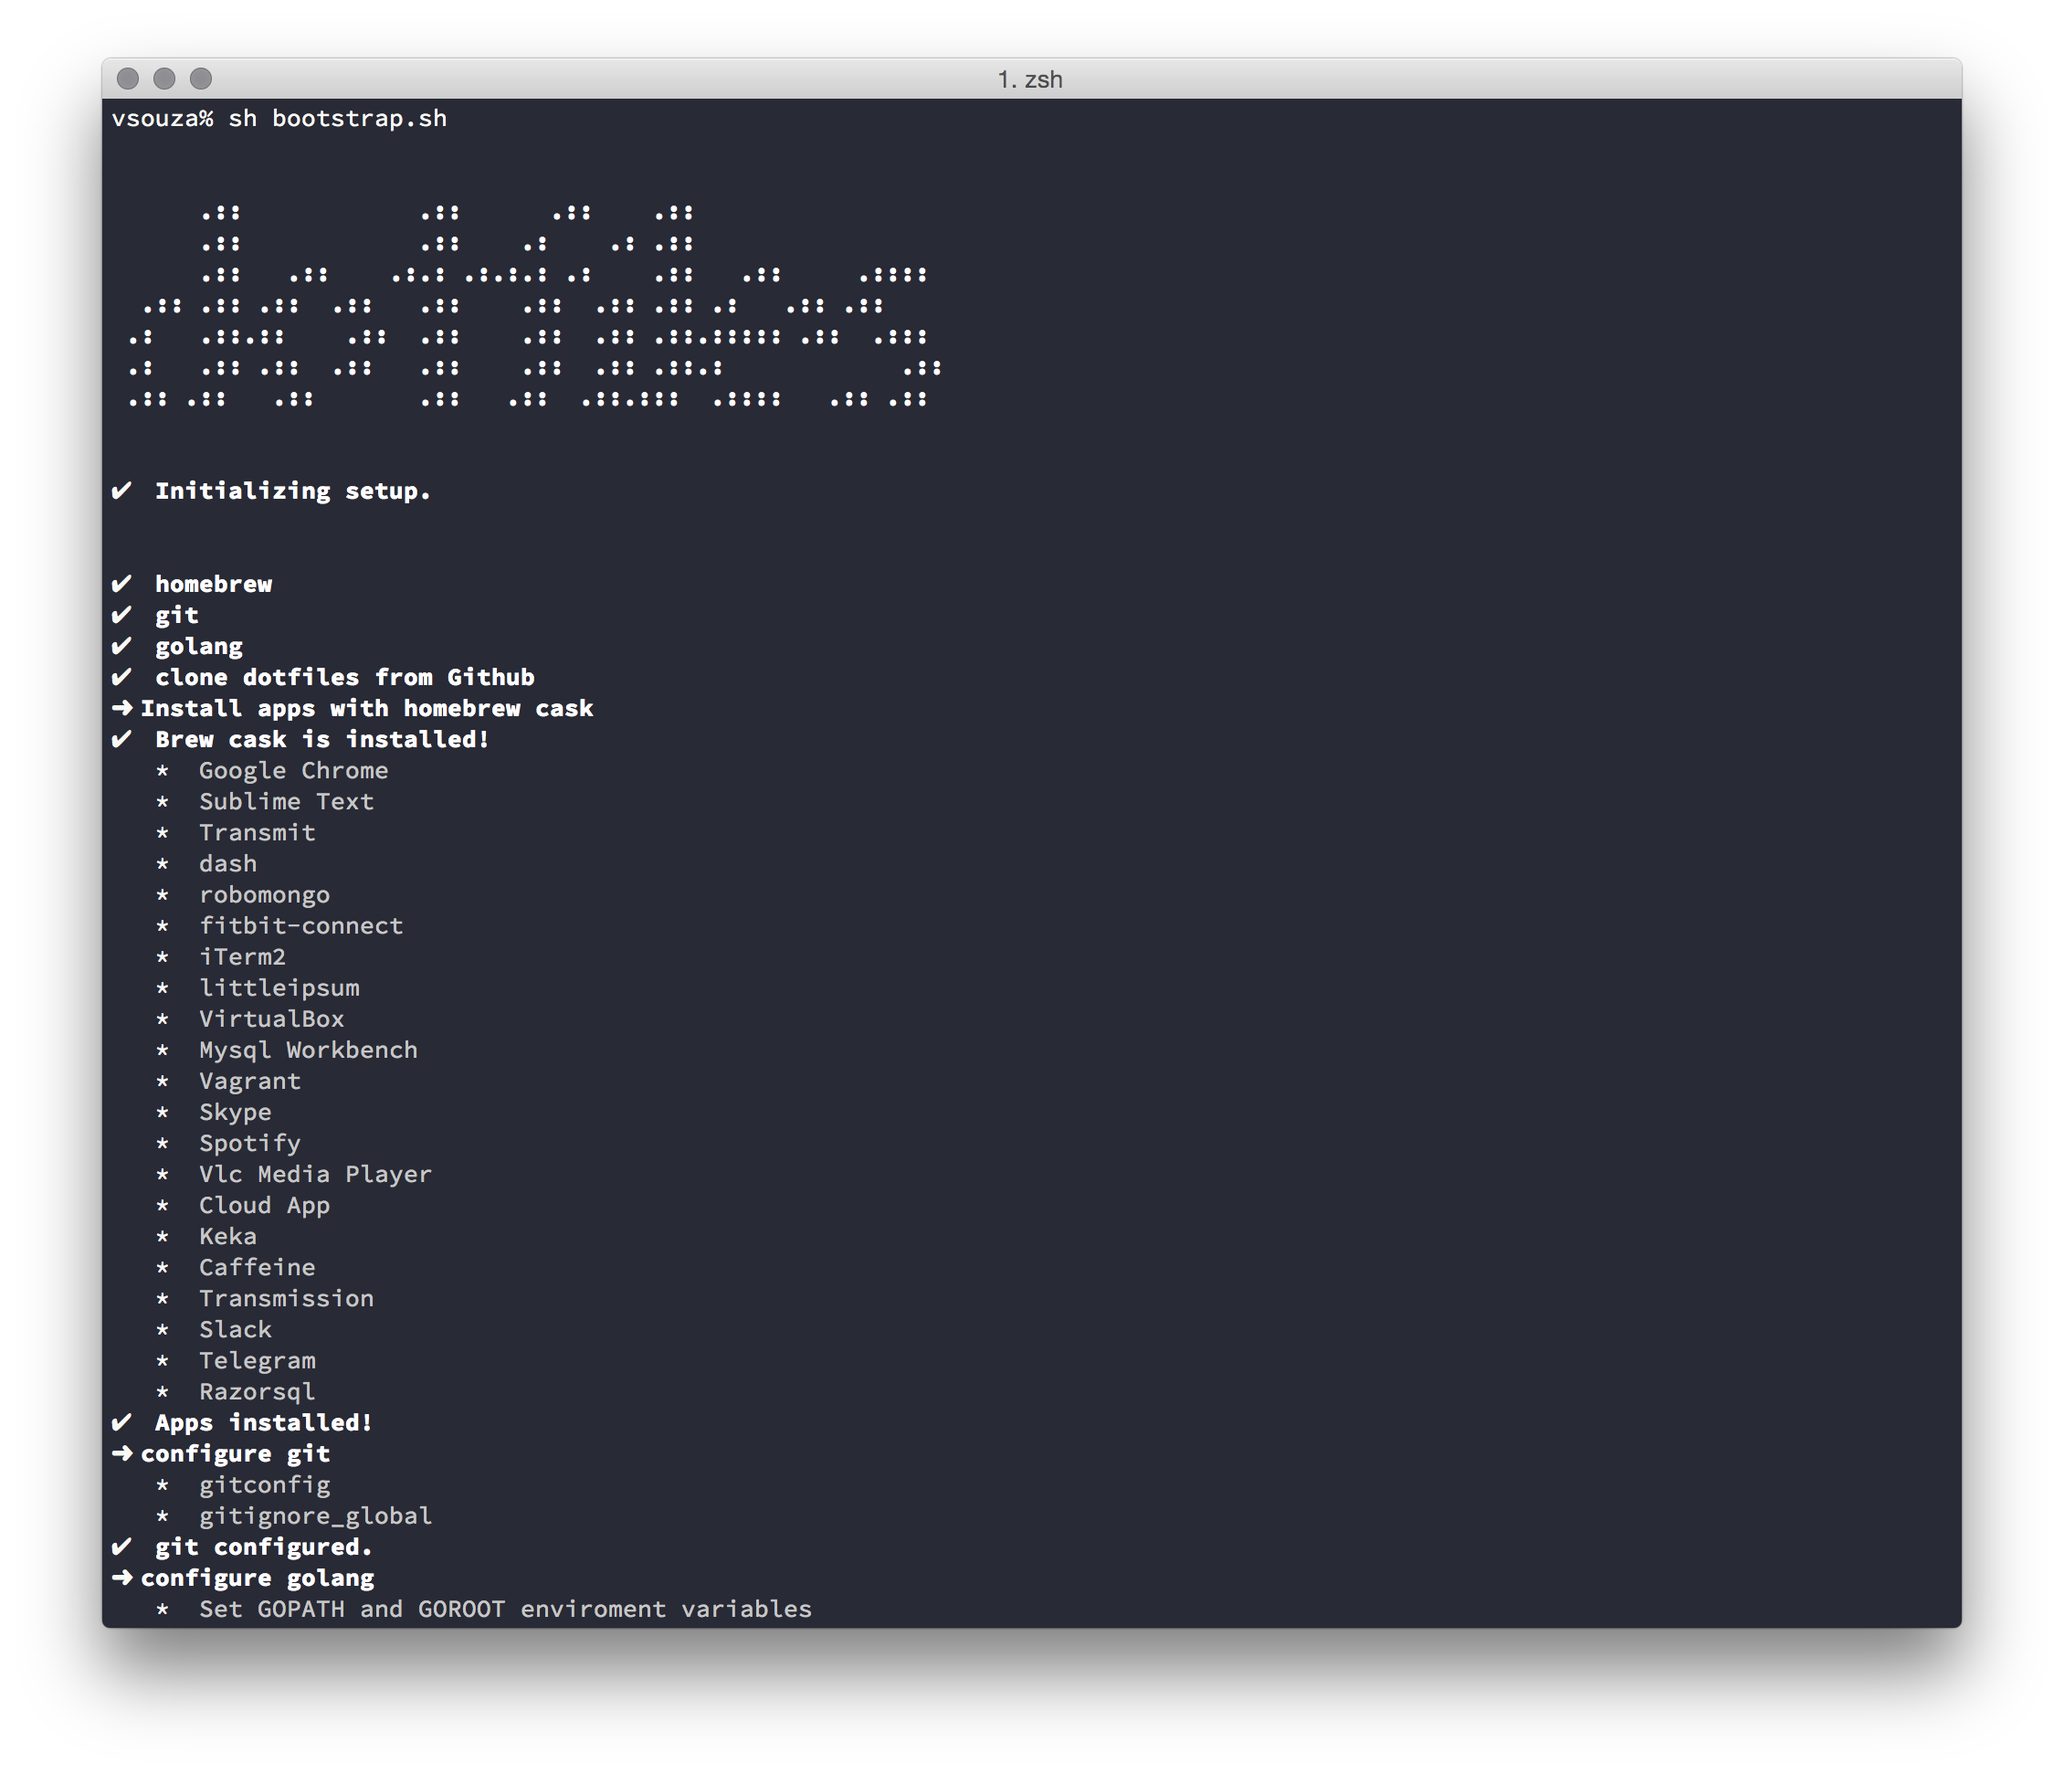
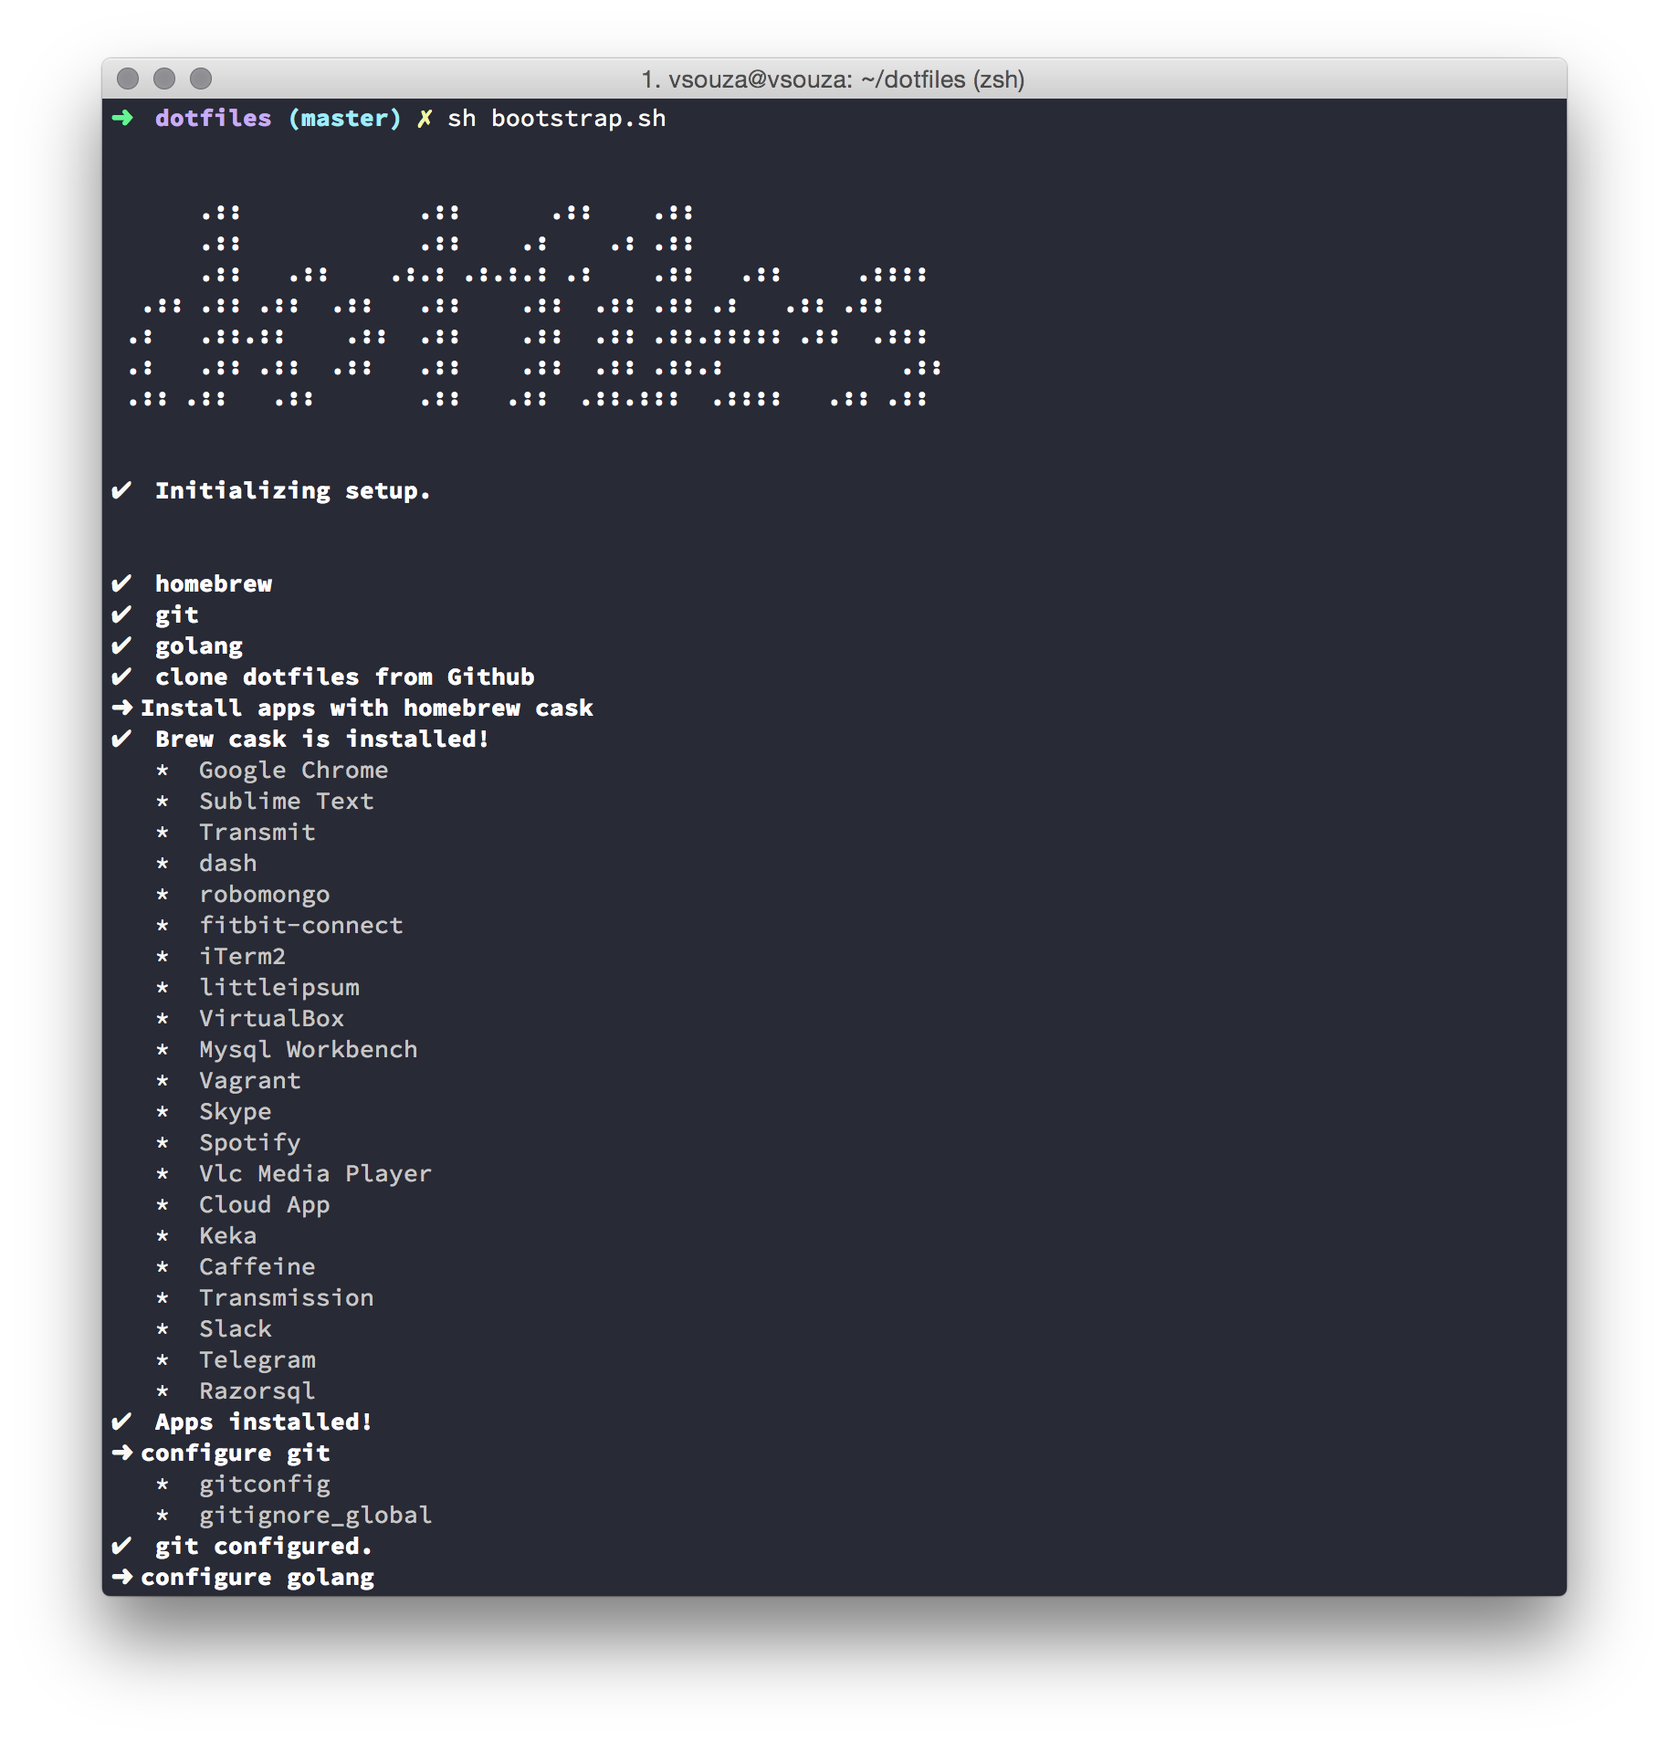
add zshell configuration. change screenshot and edit readme

diff --git a/README.md b/README.md
@@ -43,27 +43,28 @@ All my command-line tools and its configurations. Have fun :)
 
 #### Apps
 
-After installing all apps are moved to /Applications folder
+* Google Chrome
+* Sublime Text
+* Transmit
+* dash
+* robomongo
+* fitbit-connect
+* iTerm2
+* littleipsum
+* VirtualBox
+* Mysql Workbench
+* Vagrant
+* Skype
+* Spotify
+* Vlc Media Player
+* Cloud App
+* Keka
+* Caffeine
+* Transmission
+* Slack
+* Telegram
+* Razorsql
 
- * Atom
- * Firefox
- * Google Chrome
- * Cloud App
- * Caffeine
- * Filezilla
- * Sublime Text
- * Github App
- * Skype
- * Dropbox
- * iTerm2
- * Virtualbox
- * Vagrant
- * Mysql Workbench
- * Google Drive
- * Evernote
- * Spotify
- * Transmission
- * VLC Media Player
 
 #### Shell
 
